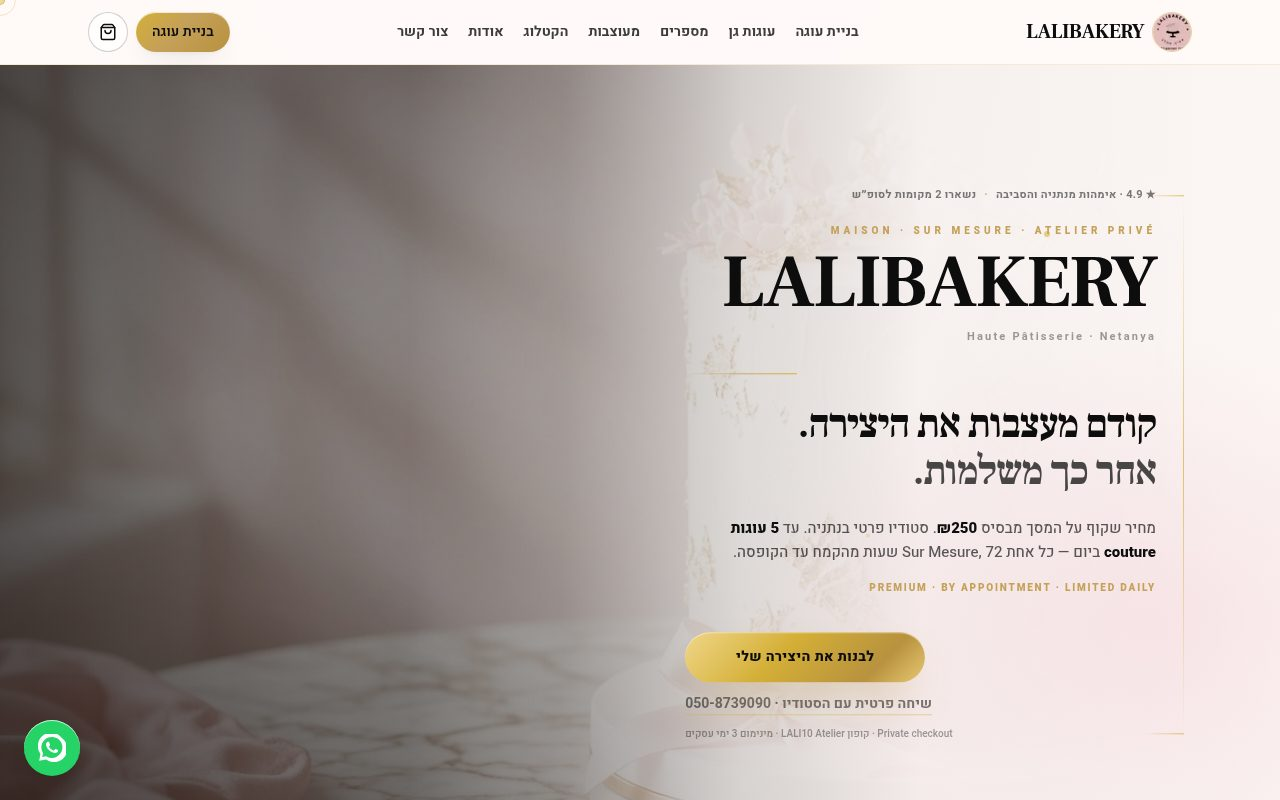
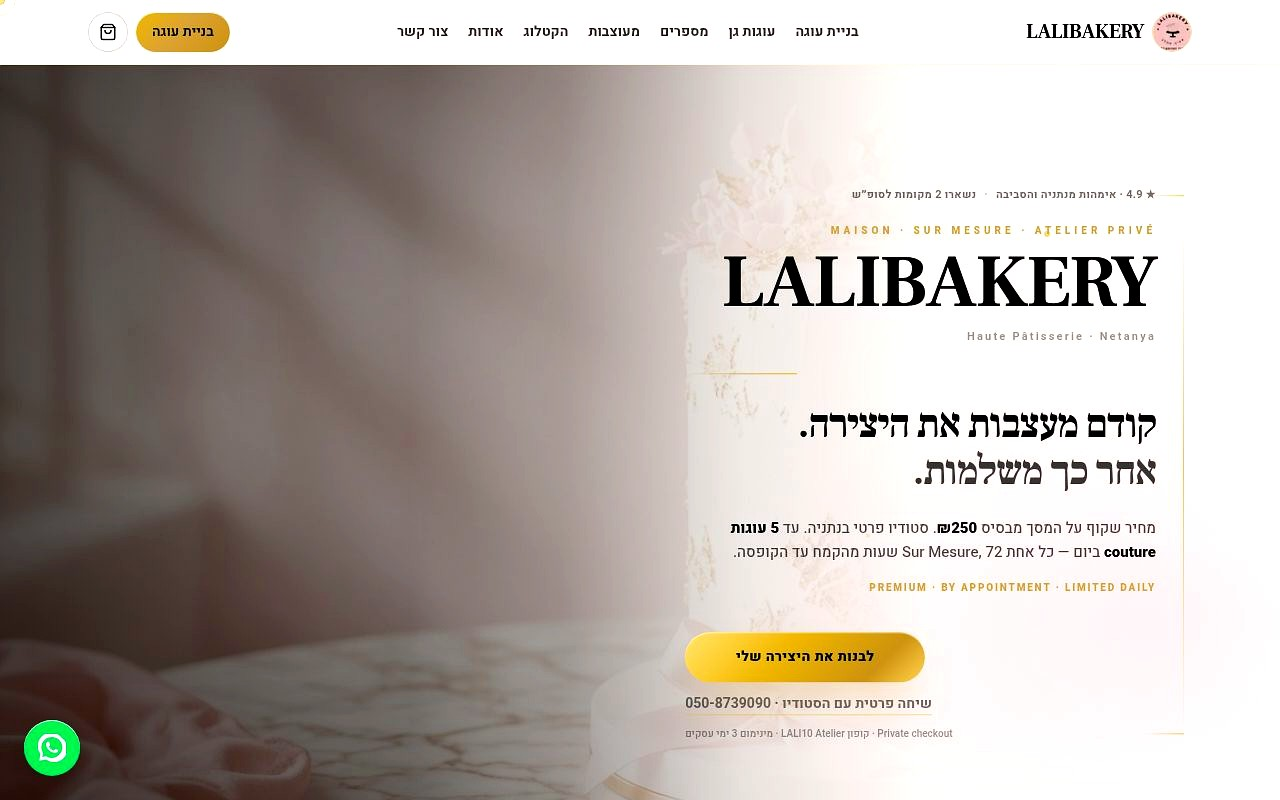
Sharpen brand life: frameless emblem, full name, vivid palette
Circular transparent emblem without square frame, CSS gold DAVID TUBUL
that never clips, punchier work-card color, and livelier site tokens.

diff --git a/src/app/globals.css b/src/app/globals.css
@@ -6,48 +6,49 @@
   deep navy void · warm ivory · liquid gold accent (one CTA color)
 */
 :root {
-  --rich-black: #0a1220;
-  --rich-black-elevated: #101a2c;
-  --rich-black-soft: #162238;
-  --void: #070e18;
+  --rich-black: #060b16;
+  --rich-black-elevated: #0e1730;
+  --rich-black-soft: #152244;
+  --void: #040812;
 
-  --gold: #d4a84b;
-  --gold-bright: #f0c86a;
-  --gold-dim: #9a752e;
-  --gold-deep: #6b501c;
+  --gold: #e0b45a;
+  --gold-bright: #ffe08a;
+  --gold-dim: #a87a2e;
+  --gold-deep: #6f4f18;
 
-  --rose-gold: #c9a08a;
-  --platinum: #c9d0dc;
-  --platinum-dim: #8490a3;
+  --rose-gold: #e0b09a;
+  --platinum: #e4eaf4;
+  --platinum-dim: #9aa8bc;
 
-  --baby-pink: #c9b0bc;
-  --baby-pink-soft: rgba(201, 176, 188, 0.1);
+  --baby-pink: #e0b8c6;
+  --baby-pink-soft: rgba(224, 184, 198, 0.14);
 
-  --garnet: #5c3d55;
-  --garnet-soft: rgba(92, 61, 85, 0.2);
+  --garnet: #7a4060;
+  --garnet-soft: rgba(122, 64, 96, 0.22);
 
-  --teal-glow: rgba(56, 140, 140, 0.22);
-  --violet-glow: rgba(90, 70, 140, 0.18);
+  --cyan: #3cb8ff;
+  --teal-glow: rgba(60, 184, 255, 0.28);
+  --violet-glow: rgba(120, 90, 200, 0.22);
 
-  --ivory: #efe9de;
-  --muted: #9aa3b2;
-  --line: rgba(212, 168, 75, 0.28);
-  --line-soft: rgba(239, 233, 222, 0.08);
+  --ivory: #f7f1e6;
+  --muted: #a8b3c6;
+  --line: rgba(224, 180, 90, 0.38);
+  --line-soft: rgba(247, 241, 230, 0.1);
 
   --surface-shine: linear-gradient(
     148deg,
-    rgba(255, 255, 255, 0.06) 0%,
-    rgba(212, 168, 75, 0.06) 40%,
-    rgba(56, 140, 140, 0.04) 100%
+    rgba(255, 255, 255, 0.09) 0%,
+    rgba(224, 180, 90, 0.1) 38%,
+    rgba(60, 184, 255, 0.07) 100%
   );
 
   --metal-gold: linear-gradient(
     120deg,
-    #f5dfa0 0%,
-    #f0c86a 22%,
-    #d4a84b 52%,
-    #a67c2e 78%,
-    #e8c468 100%
+    #fff0b8 0%,
+    #ffe08a 18%,
+    #e0b45a 48%,
+    #b8862e 72%,
+    #f5d478 100%
   );
 
   --background: var(--rich-black);
@@ -90,12 +91,12 @@ body {
 }
 
 body {
-  background-color: #0a1220;
+  background-color: #060b16;
   background-image:
-    radial-gradient(900px 600px at 35% 40%, rgba(56, 140, 140, 0.12), transparent 55%),
-    radial-gradient(700px 500px at 70% 55%, rgba(90, 70, 140, 0.1), transparent 50%),
-    radial-gradient(1000px 700px at 50% -10%, rgba(212, 168, 75, 0.06), transparent 45%),
-    linear-gradient(180deg, #0a1220 0%, #0c1626 50%, #0a1220 100%);
+    radial-gradient(920px 620px at 32% 38%, rgba(60, 184, 255, 0.16), transparent 55%),
+    radial-gradient(760px 540px at 72% 58%, rgba(120, 90, 200, 0.14), transparent 52%),
+    radial-gradient(1100px 720px at 50% -8%, rgba(224, 180, 90, 0.12), transparent 46%),
+    linear-gradient(180deg, #060b16 0%, #0a1430 48%, #060b16 100%);
   font-family: var(--font-heebo), system-ui, sans-serif;
   text-rendering: optimizeLegibility;
   -webkit-font-smoothing: antialiased;
@@ -156,9 +157,10 @@ a {
   color: #120e06;
   font-weight: 600;
   box-shadow:
-    0 0 0 1px rgba(240, 200, 106, 0.3),
-    0 0 28px rgba(212, 168, 75, 0.35),
-    inset 0 1px 0 rgba(255, 255, 255, 0.35);
+    0 0 0 1px rgba(255, 224, 138, 0.4),
+    0 0 34px rgba(224, 180, 90, 0.48),
+    0 0 60px rgba(60, 184, 255, 0.12),
+    inset 0 1px 0 rgba(255, 255, 255, 0.42);
   transition:
     transform 0.2s ease,
     filter 0.2s ease,
@@ -166,11 +168,12 @@ a {
 }
 
 .btn-gold:hover {
-  filter: brightness(1.06);
+  filter: brightness(1.08);
   box-shadow:
-    0 0 0 1px rgba(240, 200, 106, 0.45),
-    0 0 36px rgba(212, 168, 75, 0.45),
-    inset 0 1px 0 rgba(255, 255, 255, 0.4);
+    0 0 0 1px rgba(255, 224, 138, 0.55),
+    0 0 44px rgba(224, 180, 90, 0.55),
+    0 0 70px rgba(60, 184, 255, 0.18),
+    inset 0 1px 0 rgba(255, 255, 255, 0.5);
 }
 
 .btn-ghost {

diff --git a/src/components/WorkWheel.tsx b/src/components/WorkWheel.tsx
@@ -70,32 +70,33 @@ function WheelCard({
     >
       <motion.div
         style={{ opacity, scale }}
-        className={`relative h-full w-full overflow-hidden rounded-2xl border transition-[box-shadow] duration-300 ${
+        className={`relative h-full w-full overflow-hidden rounded-[1.35rem] transition-[box-shadow,filter] duration-300 ${
           active
-            ? "border-gold/55 shadow-[0_0_60px_rgba(212,168,75,0.28)]"
-            : "border-white/10 shadow-[0_24px_60px_rgba(0,0,0,0.45)]"
+            ? "shadow-[0_0_50px_rgba(56,180,255,0.22),0_28px_70px_rgba(0,0,0,0.55)] ring-1 ring-gold-bright/50"
+            : "shadow-[0_20px_50px_rgba(0,0,0,0.5)] ring-1 ring-white/10"
         }`}
       >
-        <div className="absolute inset-0 bg-[#101a2c]">
+        <div className="absolute inset-0 bg-[#0c1524]">
           {preview ? (
             <Image
               src={preview}
               alt=""
               fill
-              className="object-cover object-top"
+              className="object-cover object-top contrast-[1.05] saturate-[1.15]"
               sizes="300px"
               priority={index === 0}
+              quality={92}
             />
           ) : null}
-          <div className="absolute inset-0 bg-gradient-to-t from-[#0a1220] via-[#0a1220]/35 to-transparent" />
+          <div className="absolute inset-0 bg-gradient-to-t from-[#050a14]/95 via-[#050a14]/25 to-transparent" />
         </div>
 
         <div className="absolute inset-x-0 bottom-0 p-4 md:p-5">
-          <p className="text-[10px] tracking-[0.2em] text-gold">{project.client}</p>
+          <p className="text-[10px] tracking-[0.2em] text-gold-bright">{project.client}</p>
           <p className="display mt-1 text-2xl text-ivory md:text-3xl">{project.title}</p>
-          <p className="mt-2 line-clamp-2 text-xs text-muted md:text-sm">{project.summary}</p>
+          <p className="mt-2 line-clamp-2 text-xs text-platinum md:text-sm">{project.summary}</p>
           <span
-            className={`mt-4 inline-flex items-center gap-2 text-sm ${
+            className={`mt-4 inline-flex items-center gap-2 text-sm font-medium ${
               active ? "text-gold-bright" : "text-platinum"
             }`}
           >
@@ -202,7 +203,7 @@ export function WorkWheel() {
         <div className="sticky top-0 flex h-screen flex-col overflow-hidden">
           <div
             aria-hidden
-            className="pointer-events-none absolute inset-0 bg-[radial-gradient(circle_at_50%_45%,rgba(56,140,140,0.14),transparent_42%),radial-gradient(circle_at_50%_55%,rgba(212,168,75,0.08),transparent_50%),radial-gradient(circle_at_70%_40%,rgba(90,70,140,0.12),transparent_45%)]"
+            className="pointer-events-none absolute inset-0 bg-[radial-gradient(circle_at_50%_45%,rgba(60,184,255,0.2),transparent_42%),radial-gradient(circle_at_50%_55%,rgba(224,180,90,0.14),transparent_50%),radial-gradient(circle_at_70%_40%,rgba(120,90,200,0.16),transparent_45%)]"
           />
 
           <div className="relative z-10 mx-auto flex w-full max-w-7xl items-end justify-between px-8 pt-24">

diff --git a/src/components/Header.tsx b/src/components/Header.tsx
@@ -13,34 +13,36 @@ export function Header() {
 
   return (
     <header className="fixed inset-x-0 top-0 z-40">
-      <div className="mx-auto flex max-w-7xl items-center justify-between gap-4 px-5 py-3 md:px-8 md:py-4">
-        {/* RTL: right side = brand */}
+      <div className="mx-auto flex max-w-7xl items-center justify-between gap-3 px-5 py-3 md:gap-4 md:px-8 md:py-3.5">
         <Link
           href="/"
-          className="group relative flex shrink-0 items-center"
+          className="group relative flex shrink-0 items-center gap-2.5"
           onClick={() => setOpen(false)}
           aria-label="David Tubul — דף הבית"
         >
-          <span className="relative flex h-11 items-center gap-2.5 md:h-12">
-            <span className="relative hidden h-10 w-10 shrink-0 sm:block md:h-11 md:w-11">
-              <Image
-                src="/brand/emblem.png"
-                alt=""
-                fill
-                sizes="44px"
-                className="object-contain drop-shadow-[0_0_12px_rgba(60,160,220,0.45)]"
-              />
-            </span>
-            <span className="relative block h-7 w-[150px] sm:h-8 sm:w-[180px] md:h-9 md:w-[220px]">
-              <Image
-                src="/brand/wordmark-name.png"
-                alt="DAVID TUBUL"
-                fill
-                priority
-                sizes="220px"
-                className="object-contain object-right"
-              />
-            </span>
+          <span className="relative hidden h-11 w-11 shrink-0 sm:block md:h-12 md:w-12">
+            <Image
+              src="/brand/emblem.png"
+              alt=""
+              fill
+              sizes="48px"
+              unoptimized
+              className="object-contain drop-shadow-[0_0_20px_rgba(56,180,255,0.65)]"
+            />
+          </span>
+          {/* CSS wordmark — never clips like a cropped PNG */}
+          <span
+            className="select-none text-[15px] font-semibold tracking-[0.14em] uppercase sm:text-base md:text-lg"
+            style={{
+              background: "var(--metal-gold)",
+              WebkitBackgroundClip: "text",
+              backgroundClip: "text",
+              color: "transparent",
+              WebkitTextFillColor: "transparent",
+              filter: "drop-shadow(0 0 10px rgba(224,180,90,0.35))",
+            }}
+          >
+            David Tubul
           </span>
         </Link>
 

diff --git a/src/components/Hero.tsx b/src/components/Hero.tsx
@@ -63,17 +63,24 @@ function PlungeStage({
       >
         <motion.div
           style={{ opacity: glow }}
-          className="relative h-[min(62vw,460px)] w-[min(62vw,460px)]"
+          className="relative h-[min(70vw,520px)] w-[min(70vw,520px)]"
         >
-          <div className="absolute inset-[-22%] rounded-full bg-[radial-gradient(circle,rgba(56,160,220,0.4)_0%,rgba(212,168,75,0.14)_38%,transparent_68%)] blur-2xl" />
-          <Image
-            src="/brand/emblem.png"
-            alt=""
-            fill
-            priority
-            sizes="(max-width: 768px) 70vw, 460px"
-            className="object-contain drop-shadow-[0_0_50px_rgba(60,160,220,0.55)]"
-          />
+          <div className="absolute inset-[-30%] animate-pulse rounded-full bg-[radial-gradient(circle,rgba(56,180,255,0.5)_0%,rgba(240,200,106,0.22)_34%,transparent_66%)] blur-3xl" />
+          <motion.div
+            animate={{ rotate: 360 }}
+            transition={{ duration: 56, ease: "linear", repeat: Infinity }}
+            className="absolute inset-[4%] overflow-hidden rounded-full"
+          >
+            <Image
+              src="/brand/emblem.png"
+              alt=""
+              fill
+              priority
+              unoptimized
+              sizes="(max-width: 768px) 70vw, 520px"
+              className="object-cover drop-shadow-[0_0_70px_rgba(56,180,255,0.7)]"
+            />
+          </motion.div>
         </motion.div>
       </motion.div>
 

diff --git a/src/app/layout.tsx b/src/app/layout.tsx
@@ -39,7 +39,7 @@ export default function RootLayout({ children }: LayoutProps<"/">) {
       dir="rtl"
       className={`${heebo.variable} ${frank.variable} h-full antialiased`}
     >
-      <body className="flex min-h-full flex-col overflow-x-hidden bg-[#0a1220] font-sans text-ivory">
+      <body className="flex min-h-full flex-col overflow-x-hidden bg-[#060b16] font-sans text-ivory">
         <LenisProvider>
           <div className="noise" aria-hidden />
           <SiteChrome>{children}</SiteChrome>
